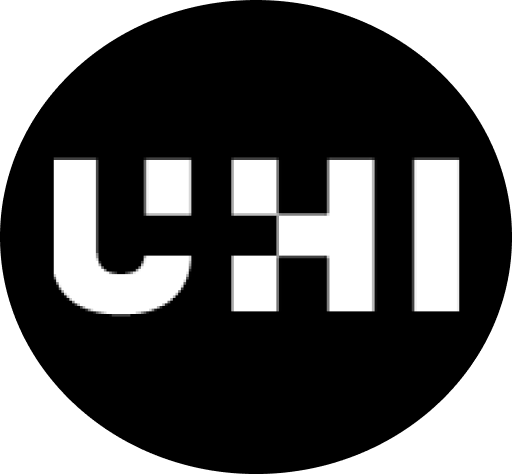
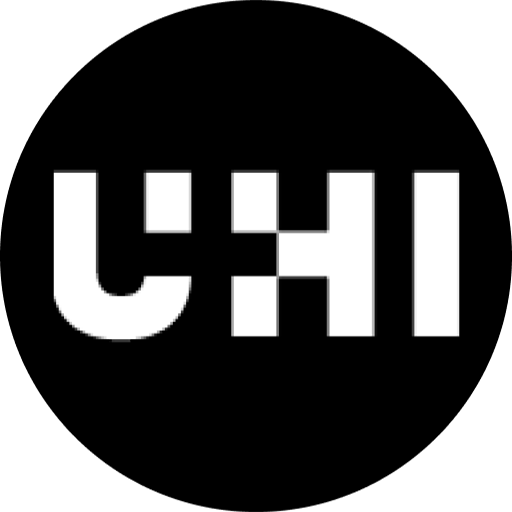
Added tooltip
- Resized tripod cover to be 512x512.

- Started changing hotpoints positions and rotations so that it scaling it up is not needed.

diff --git a/src/index.html b/src/index.html
@@ -18,6 +18,7 @@
 		<script src="classes/hotpoints.js"></script>
 		<script src="classes/info.js"></script>
 		<script src="classes/navigation.js"></script>
+		<script src="classes/tooltip.js"></script>
 
 		<script src="https://ajax.googleapis.com/ajax/libs/jquery/3.6.3/jquery.min.js"></script>
 		<!-- EXTERNAL JAVASCRIPT END -->
@@ -82,7 +83,7 @@
 
 				<!-- QUICK NAVIGATION START -->
 				<a-entity position="-1.6 1.6 -5" look-at="#camera" nav-controller>
-					<a-image class="interactable" src="#locationPin" width="0.6" height="0.6" position="0 0 0" nav></a-image>
+					<a-image class="interactable" src="#locationPin" width="0.6" height="0.6" position="0 0 0" nav tooltip></a-image>
 
 					<a-entity id="dropdown" class="nav-dropdown" position="0 -0.3 0" scale="0 0 0">
 						<!-- CORE - START -->
@@ -147,7 +148,7 @@
 				<!-- OCULUS TOUCH-CONTROLS END -->
 
 				<!-- TRIPOD COVER START -->
-				<a-image src="#tripod" position="0 -1 0" rotation="-90 0 0" scale="1.5 1.5 1.5"></a-image>
+				<a-image src="#tripod" position="0 -1 0" look-at="#camera" scale="1.5 1.5 1.5"></a-image>
 				<!-- TRIPOD COVER END -->
 
 				<!-- HOTPOINT NAVIGATION START-->

diff --git a/src/js/interactables.js b/src/js/interactables.js
@@ -27,7 +27,7 @@ function getData(location) {
 					hotpoint.setAttribute("hotpoint", "room:" + data.hpImg[i]);
 					hotpoint.setAttribute("position", data.hpPos[i]);
 					hotpoint.setAttribute("rotation", data.hpRot[i]);
-					hotpoint.setAttribute("scale", "5 5 5");
+					hotpoint.setAttribute("tooltip", "");
 
 					root.appendChild(hotpoint);
 				}
@@ -42,6 +42,7 @@ function getData(location) {
 					infopoint.setAttribute("position", data.infoPos[i]);
 					infopoint.setAttribute("look-at", "#camera");
 					infopoint.setAttribute("info", "cmd:open");
+					infopoint.setAttribute("tooltip", "");
 
 					wrapper.appendChild(infopoint);
 
@@ -78,6 +79,7 @@ function getData(location) {
 					closeBtn.setAttribute("position", "0.43 0.43 0.01");
 					closeBtn.setAttribute("scale", "0.06 0.06 0.06");
 					closeBtn.setAttribute("info", "cmd:close");
+					closeBtn.setAttribute("tooltip", "");
 
 					infodesc.appendChild(closeBtn);
 				}

diff --git a/src/classes/tooltip.js b/src/classes/tooltip.js
@@ -1,0 +1,36 @@
+/*
+	Project: WebXR VR Tour
+	Author: Bsc Team Project Group 2023
+	Description: Info point card display
+*/
+
+AFRAME.registerComponent('tooltip', {
+	init: function() {
+		var timer;
+		var element = this.el;
+
+		this.el.addEventListener("mouseenter", (e) => {
+			timer = setTimeout(function() {
+				if (element.getAttribute("visible") == true) {
+					var tooltip = document.createElement("a-entity");
+					tooltip.setAttribute("id", "tooltip");
+					tooltip.setAttribute("text", "value: Click to interact.");
+					tooltip.setAttribute("position", "1.65 -0.75 0");
+					tooltip.setAttribute("scale", "5 5 5");
+
+					element.appendChild(tooltip);
+				}
+			}, 1000);
+		});
+
+		this.el.addEventListener("mouseleave", (e) => {
+			var tooltip = document.getElementById("tooltip");
+
+			if (tooltip) {
+				tooltip.remove();
+			}
+			
+			clearTimeout(timer);
+		});
+	}
+})
